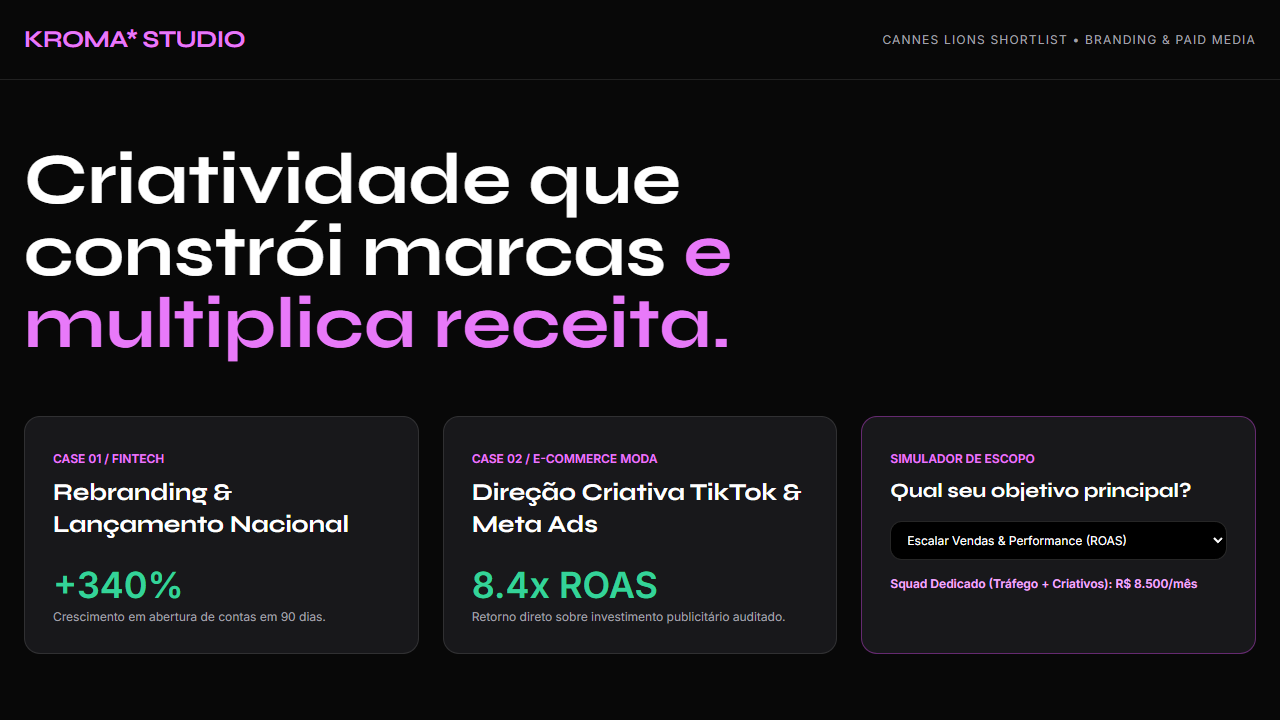
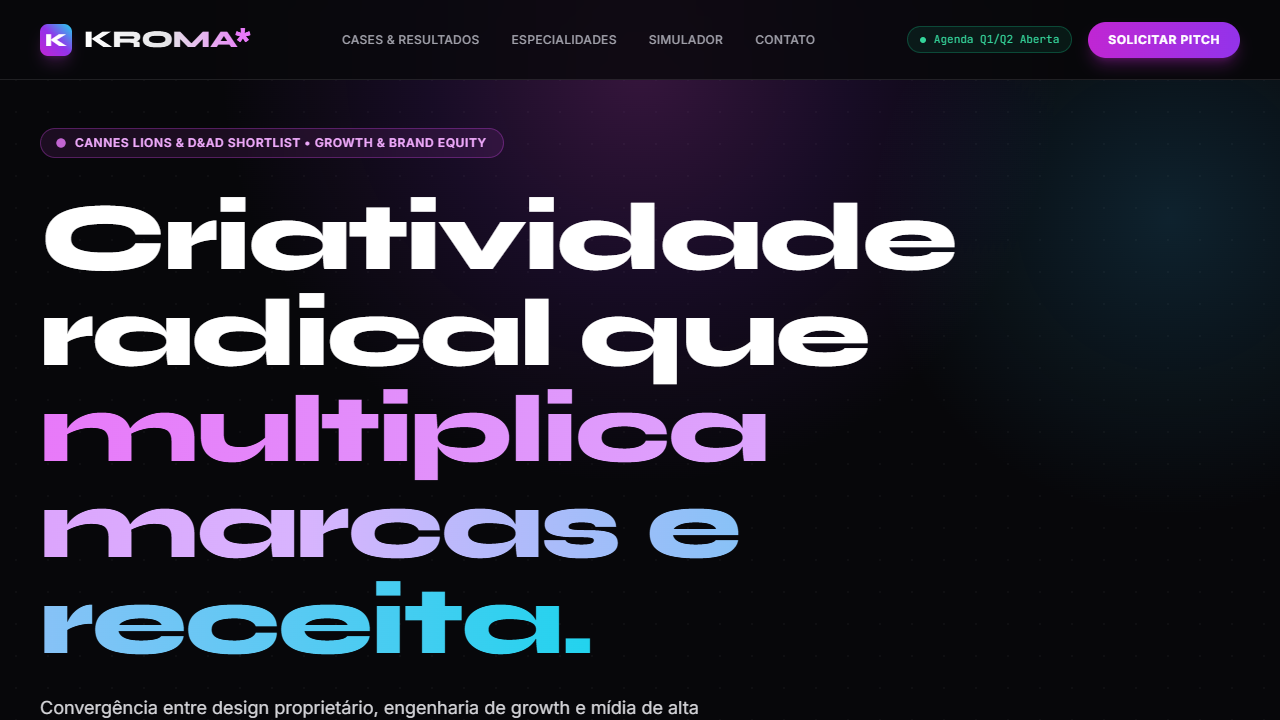
fix(layouts): add luxury visual background, ambient glow and hero showcase to site-agencia-publicidade and update screenshots

diff --git a/layouts para sites/site-agencia-publicidade/index.html b/layouts para sites/site-agencia-publicidade/index.html
@@ -1,52 +1,236 @@
 <!DOCTYPE html>
 <html lang="pt-BR">
 <head>
-  <meta charset="UTF-8" /><meta name="viewport" content="width=device-width, initial-scale=1.0" />
+  <meta charset="UTF-8" />
+  <meta name="viewport" content="width=device-width, initial-scale=1.0" />
   <title>KROMA* — Creative Growth & Branding Agency</title>
   <script src="https://cdn.tailwindcss.com"></script>
-  <link href="https://fonts.googleapis.com/css2?family=Syne:wght@700;800&family=Inter:wght@400;500;600&display=swap" rel="stylesheet">
+  <link href="https://fonts.googleapis.com/css2?family=Syne:wght@700;800&family=Inter:wght@400;500;600;700&family=JetBrains+Mono:wght@400;500&display=swap" rel="stylesheet">
   <style>
-    body { background-color: #080808; color: #FFFFFF; font-family: 'Inter', sans-serif; }
+    body {
+      background-color: #07070A;
+      color: #FFFFFF;
+      font-family: 'Inter', sans-serif;
+      overflow-x: hidden;
+    }
     .font-agency { font-family: 'Syne', sans-serif; }
+    .font-mono-tech { font-family: 'JetBrains Mono', monospace; }
+    
+    .bg-grid {
+      background-image: radial-gradient(rgba(255, 255, 255, 0.08) 1px, transparent 1px);
+      background-size: 32px 32px;
+    }
+    .glow-fuchsia {
+      background: radial-gradient(circle 600px at 50% 10%, rgba(217, 70, 239, 0.22), rgba(147, 51, 234, 0.12), transparent 70%);
+    }
+    .glow-cyan {
+      background: radial-gradient(circle 500px at 80% 25%, rgba(56, 189, 248, 0.15), transparent 60%);
+    }
+    .glass-card {
+      background: rgba(18, 18, 24, 0.72);
+      backdrop-filter: blur(16px);
+      -webkit-backdrop-filter: blur(16px);
+      border: 1px solid rgba(255, 255, 255, 0.1);
+    }
+    .glass-card:hover {
+      border-color: rgba(217, 70, 239, 0.45);
+      transform: translateY(-2px);
+    }
   </style>
   <!-- Favicon -->
   <link rel="icon" type="image/svg+xml" href="/favicon.svg" />
   <link rel="shortcut icon" href="/favicon.ico" />
 </head>
-<body class="min-h-screen antialiased">
-  <header class="border-b border-white/10 px-6 h-20 flex items-center justify-between max-w-7xl mx-auto">
-    <span class="font-agency text-2xl tracking-tight text-fuchsia-400">KROMA* STUDIO</span>
-    <span class="text-xs uppercase tracking-widest text-zinc-400">Cannes Lions Shortlist • Branding & Paid Media</span>
+<body class="min-h-screen antialiased relative selection:bg-fuchsia-500 selection:text-white">
+
+  <!-- Ambient Lighting Glows & Background Grid Pattern -->
+  <div class="fixed inset-0 bg-grid pointer-events-none opacity-40 z-0"></div>
+  <div class="fixed top-0 left-0 right-0 h-[650px] glow-fuchsia pointer-events-none z-0"></div>
+  <div class="fixed top-20 right-0 w-[550px] h-[550px] glow-cyan pointer-events-none z-0"></div>
+
+  <!-- Header -->
+  <header class="sticky top-0 z-40 backdrop-blur-xl bg-[#07070A]/80 border-b border-white/10 px-6 sm:px-10 h-20 flex items-center justify-between max-w-7xl mx-auto">
+    <div class="flex items-center gap-3">
+      <div class="w-8 h-8 rounded-lg bg-gradient-to-tr from-fuchsia-600 via-purple-600 to-cyan-400 flex items-center justify-center font-agency font-extrabold text-white text-lg shadow-lg shadow-fuchsia-500/20">
+        K
+      </div>
+      <span class="font-agency text-2xl tracking-tight font-extrabold text-transparent bg-clip-text bg-gradient-to-r from-white via-zinc-200 to-fuchsia-400">
+        KROMA<span class="text-fuchsia-400">*</span>
+      </span>
+    </div>
+    
+    <div class="hidden md:flex items-center gap-8 text-xs font-medium tracking-wide uppercase text-zinc-400">
+      <a href="#cases" class="hover:text-white transition-colors">Cases & Resultados</a>
+      <a href="#servicos" class="hover:text-white transition-colors">Especialidades</a>
+      <a href="#simulador" class="hover:text-white transition-colors">Simulador</a>
+      <a href="#contato" class="hover:text-white transition-colors">Contato</a>
+    </div>
+
+    <div class="flex items-center gap-4">
+      <span class="hidden sm:inline-flex items-center gap-2 px-3 py-1 rounded-full text-[11px] font-mono-tech border border-emerald-500/30 bg-emerald-500/10 text-emerald-400">
+        <span class="w-1.5 h-1.5 rounded-full bg-emerald-400 animate-pulse"></span>
+        Agenda Q1/Q2 Aberta
+      </span>
+      <a href="#simulador" class="px-5 py-2.5 rounded-full text-xs font-bold uppercase tracking-wider bg-gradient-to-r from-fuchsia-600 to-purple-600 hover:from-fuchsia-500 hover:to-purple-500 text-white shadow-lg shadow-fuchsia-600/30 transition-all hover:scale-105 active:scale-95">
+        Solicitar Pitch
+      </a>
+    </div>
   </header>
 
-  <main class="max-w-7xl mx-auto px-6 py-16">
-    <h1 class="font-agency text-5xl sm:text-7xl leading-[0.95] max-w-4xl">Criatividade que constrói marcas <span class="text-fuchsia-400">e multiplica receita.</span></h1>
+  <!-- Hero Section -->
+  <main class="relative z-10 max-w-7xl mx-auto px-6 sm:px-10 pt-12 pb-24">
+    
+    <!-- Top Pill -->
+    <div class="inline-flex items-center gap-2.5 px-4 py-1.5 rounded-full border border-fuchsia-500/30 bg-fuchsia-500/10 text-fuchsia-300 text-xs font-semibold uppercase tracking-wider mb-8 backdrop-blur-md">
+      <span class="w-2 h-2 rounded-full bg-fuchsia-400 animate-ping"></span>
+      Cannes Lions & D&AD Shortlist • Growth & Brand Equity
+    </div>
 
-    <div class="grid grid-cols-1 md:grid-cols-3 gap-6 mt-14">
-      <div class="p-7 rounded-2xl bg-zinc-900 border border-white/10">
-        <span class="text-xs font-bold uppercase text-fuchsia-400">Case 01 / Fintech</span>
-        <h3 class="font-agency text-2xl mt-2">Rebranding & Lançamento Nacional</h3>
-        <div class="text-4xl font-extrabold text-emerald-400 mt-6">+340%</div>
-        <p class="text-xs text-zinc-400 mt-1">Crescimento em abertura de contas em 90 dias.</p>
-      </div>
-      <div class="p-7 rounded-2xl bg-zinc-900 border border-white/10">
-        <span class="text-xs font-bold uppercase text-fuchsia-400">Case 02 / E-commerce Moda</span>
-        <h3 class="font-agency text-2xl mt-2">Direção Criativa TikTok & Meta Ads</h3>
-        <div class="text-4xl font-extrabold text-emerald-400 mt-6">8.4x ROAS</div>
-        <p class="text-xs text-zinc-400 mt-1">Retorno direto sobre investimento publicitário auditado.</p>
-      </div>
-      <div class="p-7 rounded-2xl bg-zinc-900 border border-fuchsia-500/40">
-        <span class="text-xs font-bold uppercase text-fuchsia-400">Simulador de Escopo</span>
-        <h3 class="font-agency text-xl mt-2">Qual seu objetivo principal?</h3>
-        <select onchange="document.getElementById('ag-res').textContent = this.value" class="w-full mt-4 px-3 py-2.5 bg-black border border-white/15 rounded-xl text-xs">
-          <option value="Squad Dedicado (Tráfego + Criativos): R$ 8.500/mês">Escalar Vendas & Performance (ROAS)</option>
-          <option value="Projeto Completo Identidade + Brandbook: R$ 14.000">Rebranding Completo & Identidade Visual</option>
-          <option value="Produção 3D + Campanha Lançamento: R$ 19.000">Campanha de Lançamento 360°</option>
-        </select>
-        <p id="ag-res" class="mt-4 text-xs font-bold text-fuchsia-300">Squad Dedicado (Tráfego + Criativos): R$ 8.500/mês</p>
+    <!-- Main Title -->
+    <h1 class="font-agency text-5xl sm:text-7xl lg:text-8xl font-extrabold leading-[0.92] tracking-tight max-w-5xl">
+      Criatividade radical que <span class="text-transparent bg-clip-text bg-gradient-to-r from-fuchsia-400 via-purple-300 to-cyan-400">multiplica marcas e receita.</span>
+    </h1>
+
+    <p class="mt-6 text-base sm:text-lg text-zinc-300 max-w-2xl leading-relaxed font-normal">
+      Convergência entre design proprietário, engenharia de growth e mídia de alta performance para liderar categorias de mercado.
+    </p>
+
+    <!-- Visual Hero Banner (Showcase de Campanha) -->
+    <div class="relative rounded-3xl overflow-hidden border border-white/15 h-80 sm:h-[420px] my-12 shadow-2xl group">
+      <img src="https://images.unsplash.com/photo-1558655146-d09347e92766?q=80&w=1600&auto=format&fit=crop"
+           alt="Kroma Studio Showcase"
+           class="w-full h-full object-cover object-center filter brightness-[0.82] contrast-[1.08] transition-transform duration-700 group-hover:scale-105">
+      <div class="absolute inset-0 bg-gradient-to-t from-[#07070A] via-black/40 to-transparent"></div>
+      <div class="absolute inset-0 bg-gradient-to-r from-purple-900/40 via-transparent to-cyan-900/30"></div>
+
+      <!-- Floating Badge on Banner -->
+      <div class="absolute bottom-6 left-6 sm:left-10 right-6 flex flex-wrap items-end justify-between gap-4">
+        <div>
+          <span class="px-3 py-1 rounded-full text-[10px] font-mono-tech uppercase font-bold tracking-widest bg-fuchsia-600 text-white shadow-lg">
+            Campanha Global 2026
+          </span>
+          <h2 class="font-agency text-2xl sm:text-4xl font-extrabold text-white mt-2 drop-shadow-lg">
+            Aura Nova — Rebranding & Experience Design
+          </h2>
+          <p class="text-xs sm:text-sm text-zinc-300 mt-1 drop-shadow">Direção criativa, filme manifesto 3D e expansão omnichannel.</p>
+        </div>
+        <div class="flex items-center gap-3">
+          <div class="px-4 py-2 rounded-2xl glass-card text-right">
+            <div class="text-xl sm:text-2xl font-agency font-bold text-emerald-400">+480%</div>
+            <div class="text-[10px] uppercase font-mono-tech text-zinc-400">Brand Lift Auditado</div>
+          </div>
+          <div class="px-4 py-2 rounded-2xl glass-card text-right">
+            <div class="text-xl sm:text-2xl font-agency font-bold text-cyan-400">12.8M</div>
+            <div class="text-[10px] uppercase font-mono-tech text-zinc-400">Alcance Orgânico</div>
+          </div>
+        </div>
       </div>
     </div>
+
+    <!-- Cases & Metrics Grid -->
+    <div id="cases" class="grid grid-cols-1 md:grid-cols-3 gap-6 mt-14">
+      
+      <!-- Case 01 -->
+      <div class="glass-card p-8 rounded-3xl transition-all duration-300 relative overflow-hidden group">
+        <div class="absolute top-0 right-0 w-32 h-32 bg-fuchsia-500/10 rounded-full blur-2xl group-hover:bg-fuchsia-500/25 transition-all"></div>
+        <div class="flex items-center justify-between mb-4">
+          <span class="text-xs font-mono-tech font-bold uppercase tracking-wider text-fuchsia-400">Case 01 • Fintech</span>
+          <span class="text-[11px] font-mono-tech text-zinc-500">2026</span>
+        </div>
+        <h3 class="font-agency text-2xl font-bold leading-snug">Rebranding Global & Aquisição Institucional</h3>
+        <p class="text-xs text-zinc-400 mt-3 leading-relaxed">Redesenho completo de ecossistema visual, pitch decks de captação e mídia de performance B2B.</p>
+        <div class="mt-8 pt-6 border-t border-white/10 flex items-baseline justify-between">
+          <div>
+            <div class="text-4xl font-agency font-extrabold text-emerald-400">+340%</div>
+            <div class="text-[11px] text-zinc-400 mt-1">Crescimento de contas em 90 dias</div>
+          </div>
+          <span class="text-xs font-bold text-fuchsia-400 group-hover:translate-x-1 transition-transform">Ver Case →</span>
+        </div>
+      </div>
+
+      <!-- Case 02 -->
+      <div class="glass-card p-8 rounded-3xl transition-all duration-300 relative overflow-hidden group">
+        <div class="absolute top-0 right-0 w-32 h-32 bg-cyan-500/10 rounded-full blur-2xl group-hover:bg-cyan-500/25 transition-all"></div>
+        <div class="flex items-center justify-between mb-4">
+          <span class="text-xs font-mono-tech font-bold uppercase tracking-wider text-cyan-400">Case 02 • E-commerce Moda</span>
+          <span class="text-[11px] font-mono-tech text-zinc-500">2026</span>
+        </div>
+        <h3 class="font-agency text-2xl font-bold leading-snug">Direção Criativa TikTok & Meta Ads</h3>
+        <p class="text-xs text-zinc-400 mt-3 leading-relaxed">Produção de mais de 120 criativos modulares de alta retenção com otimização algorítmica diária.</p>
+        <div class="mt-8 pt-6 border-t border-white/10 flex items-baseline justify-between">
+          <div>
+            <div class="text-4xl font-agency font-extrabold text-cyan-400">8.4x ROAS</div>
+            <div class="text-[11px] text-zinc-400 mt-1">Retorno auditado em campanhas pagas</div>
+          </div>
+          <span class="text-xs font-bold text-cyan-400 group-hover:translate-x-1 transition-transform">Ver Case →</span>
+        </div>
+      </div>
+
+      <!-- Case 03 / Simulator -->
+      <div id="simulador" class="glass-card p-8 rounded-3xl border-fuchsia-500/40 relative overflow-hidden">
+        <div class="flex items-center justify-between mb-4">
+          <span class="text-xs font-mono-tech font-bold uppercase tracking-wider text-fuchsia-400">Simulador de Escopo</span>
+          <span class="px-2 py-0.5 rounded text-[10px] font-mono-tech bg-fuchsia-500/20 text-fuchsia-300">Estimativa</span>
+        </div>
+        <h3 class="font-agency text-xl font-bold">Qual o desafio principal da sua marca?</h3>
+        
+        <div class="mt-5 space-y-3">
+          <label class="block text-xs text-zinc-400">Selecione o objetivo:</label>
+          <select id="ag-select" onchange="updateSim()" class="w-full px-3.5 py-3 bg-black/80 border border-white/20 rounded-xl text-xs text-white focus:outline-none focus:border-fuchsia-500">
+            <option value="growth">Escalar Vendas & Paid Growth (ROAS)</option>
+            <option value="rebranding">Rebranding Completo & Identidade Visual</option>
+            <option value="launch">Campanha de Lançamento 360° (Filme + 3D)</option>
+          </select>
+        </div>
+
+        <div class="mt-6 p-4 rounded-2xl bg-black/60 border border-white/10">
+          <div class="text-[10px] uppercase font-mono-tech text-zinc-400">Investimento Recomendado:</div>
+          <div id="ag-res" class="text-lg font-agency font-extrabold text-fuchsia-400 mt-1">Squad Dedicado: R$ 8.500 /mês</div>
+          <div id="ag-detail" class="text-[11px] text-zinc-400 mt-1">Gestão de tráfego, 24 criativos/mês e CRO.</div>
+        </div>
+
+        <button onclick="alert('Solicitação recebida! Nossa diretoria de contas entrará em contato em até 2 horas úteis.')"
+                class="w-full mt-5 py-3 rounded-xl bg-gradient-to-r from-fuchsia-600 to-purple-600 hover:from-fuchsia-500 hover:to-purple-500 text-white font-bold text-xs uppercase tracking-wider shadow-lg transition-all">
+          Reservar Proposta Executiva
+        </button>
+      </div>
+
+    </div>
+
+    <!-- Client Trust Marquee / Recognition -->
+    <div class="mt-20 pt-10 border-t border-white/10 text-center">
+      <p class="text-xs uppercase font-mono-tech tracking-widest text-zinc-500 mb-6">
+        Marcas impactadas por nossa metodologia de crescimento
+      </p>
+      <div class="flex flex-wrap items-center justify-center gap-8 sm:gap-14 opacity-60 grayscale hover:grayscale-0 transition-all font-agency text-xl font-bold tracking-wider text-zinc-400">
+        <span>VOLT™ ENERGY</span>
+        <span>AURA CAPITAL</span>
+        <span>LUMEN HEALTH</span>
+        <span>NEXUS LOGISTICS</span>
+        <span>KINETIX APPAREL</span>
+      </div>
+    </div>
+
   </main>
+
+  <script>
+    function updateSim() {
+      const val = document.getElementById('ag-select').value;
+      const res = document.getElementById('ag-res');
+      const det = document.getElementById('ag-detail');
+      if (val === 'growth') {
+        res.textContent = 'Squad Dedicado: R$ 8.500 /mês';
+        det.textContent = 'Gestão de tráfego, 24 criativos modulares/mês e CRO.';
+      } else if (val === 'rebranding') {
+        res.textContent = 'Brandbook + Identidade: R$ 14.500';
+        det.textContent = 'Tipografia proprietária, tom de voz, design system e papelaria.';
+      } else if (val === 'launch') {
+        res.textContent = 'Campanha 360°: R$ 22.000';
+        det.textContent = 'Filme manifesto 4K, assets 3D, press kit e ativação com creators.';
+      }
+    }
+  </script>
+
   <!-- Vercel Web Analytics & Speed Insights -->
   <script>
     window.va = window.va || function () { (window.vaq = window.vaq || []).push(arguments); };

diff --git a/layouts para sites/site-consultoria/index.html b/layouts para sites/site-consultoria/index.html
@@ -5,7 +5,18 @@
   <title>APEX STRATEGY — Consultoria de Gestão & Eficiência EBITDA</title>
   <script src="https://cdn.tailwindcss.com"></script>
   <link href="https://fonts.googleapis.com/css2?family=Plus+Jakarta+Sans:wght@400;600;700;800&display=swap" rel="stylesheet">
-  <style>body { background-color: #080E1A; color: #F8FAFC; font-family: 'Plus Jakarta Sans', sans-serif; }</style>
+  <style>
+    body {
+      background-color: #070C18;
+      color: #F8FAFC;
+      font-family: 'Plus Jakarta Sans', sans-serif;
+      background-image: radial-gradient(rgba(56, 189, 248, 0.08) 1px, transparent 1px),
+                        radial-gradient(circle 700px at 50% -10%, rgba(14, 165, 233, 0.18), transparent 70%),
+                        radial-gradient(circle 500px at 85% 30%, rgba(99, 102, 241, 0.12), transparent 60%);
+      background-size: 32px 32px, 100% 100%, 100% 100%;
+      background-attachment: fixed;
+    }
+  </style>
   <!-- Favicon -->
   <link rel="icon" type="image/svg+xml" href="/favicon.svg" />
   <link rel="shortcut icon" href="/favicon.ico" />

diff --git a/index.html b/index.html
@@ -948,7 +948,7 @@
 
       <!-- Modal Image Banner -->
       <div class="relative h-60 sm:h-72 w-full overflow-hidden bg-void">
-        <img id="modal-image" src="" alt="" class="w-full h-full object-cover">
+        <img id="modal-image" src="" alt="" class="w-full h-full object-cover object-top">
         <div class="absolute inset-0" style="background: linear-gradient(to top, #0D1220 0%, transparent 70%);"></div>
         <div class="absolute bottom-4 left-6 flex items-center gap-2">
           <span id="modal-category" class="px-3 py-1 rounded-full text-xs font-semibold text-white bg-electric shadow-lg"></span>

diff --git a/v2-editorial-dark-blue/index.html b/v2-editorial-dark-blue/index.html
@@ -948,7 +948,7 @@
 
       <!-- Modal Image Banner -->
       <div class="relative h-60 sm:h-72 w-full overflow-hidden bg-void">
-        <img id="modal-image" src="" alt="" class="w-full h-full object-cover">
+        <img id="modal-image" src="" alt="" class="w-full h-full object-cover object-top">
         <div class="absolute inset-0" style="background: linear-gradient(to top, #0D1220 0%, transparent 70%);"></div>
         <div class="absolute bottom-4 left-6 flex items-center gap-2">
           <span id="modal-category" class="px-3 py-1 rounded-full text-xs font-semibold text-white bg-electric shadow-lg"></span>
